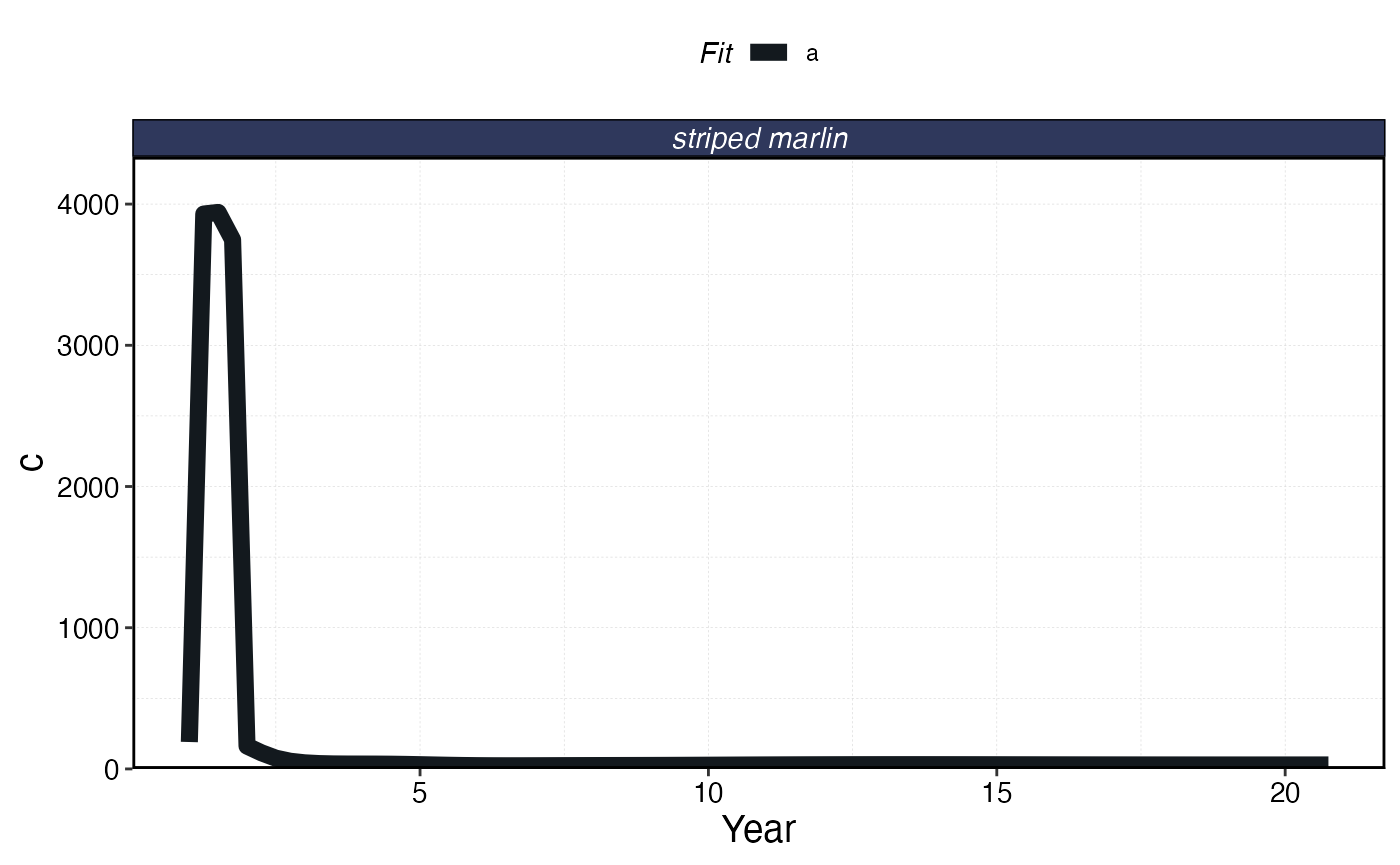
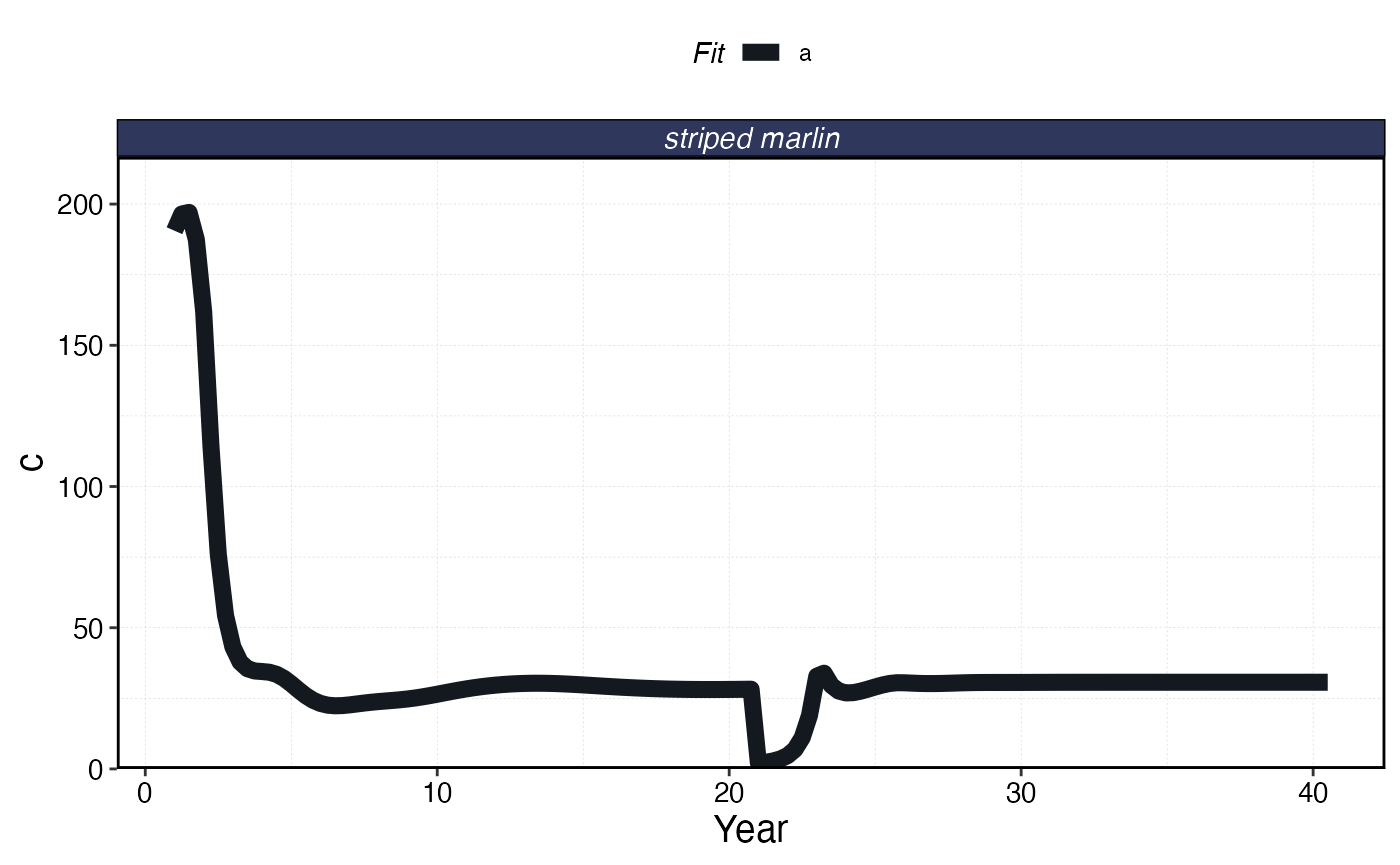
finally moved away from decinal step naming to {year}_{integer season} convention

diff --git a/docs/articles/MSE.html b/docs/articles/MSE.html
@@ -127,9 +127,10 @@ the results of our assessment</p></li>
 <span></span>
 <span><span class="va">burn_years</span> <span class="op">&lt;-</span> <span class="fl">20</span></span>
 <span></span>
-<span><span class="va">sim_years</span> <span class="op">&lt;-</span> <span class="fl">20</span></span>
-<span></span>
 <span><span class="va">seasons</span> <span class="op">&lt;-</span> <span class="fl">4</span></span>
+<span></span>
+<span><span class="va">sim_steps</span> <span class="op">&lt;-</span> <span class="fl">20</span> <span class="op">*</span> <span class="va">seasons</span></span>
+<span></span>
 <span></span>
 <span><span class="va">time_step</span> <span class="op">&lt;-</span> <span class="fl">1</span> <span class="op">/</span> <span class="va">seasons</span></span>
 <span></span>
@@ -211,13 +212,13 @@ the results of our assessment</p></li>
 <span>                  fleets <span class="op">=</span> <span class="va">fleets</span>,</span>
 <span>                  years <span class="op">=</span> <span class="va">burn_years</span><span class="op">)</span></span>
 <span></span>
+<span><span class="va">test</span> <span class="op">&lt;-</span> <span class="fu"><a href="../reference/process_marlin.html">process_marlin</a></span><span class="op">(</span><span class="va">mse_sim</span>, keep_age <span class="op">=</span> <span class="cn">FALSE</span><span class="op">)</span></span>
+<span></span>
 <span><span class="va">initial_conditions</span> <span class="op">&lt;-</span> <span class="va">mse_sim</span><span class="op">[[</span><span class="fu"><a href="https://rdrr.io/r/base/length.html" class="external-link">length</a></span><span class="op">(</span><span class="va">mse_sim</span><span class="op">)</span><span class="op">]</span><span class="op">]</span></span>
 <span></span>
 <span><span class="va">starting_step</span> <span class="op">=</span> <span class="fu">marlin</span><span class="fu">::</span><span class="fu"><a href="../reference/clean_steps.html">clean_steps</a></span><span class="op">(</span><span class="fu"><a href="https://dplyr.tidyverse.org/reference/nth.html" class="external-link">last</a></span><span class="op">(</span><span class="fu"><a href="https://rdrr.io/r/base/names.html" class="external-link">names</a></span><span class="op">(</span><span class="va">mse_sim</span><span class="op">)</span><span class="op">)</span><span class="op">)</span></span>
-<span><span class="co">#&gt; Warning in marlin::clean_steps(last(names(mse_sim))): NAs introduced by</span></span>
-<span><span class="co">#&gt; coercion</span></span>
 <span>  </span>
-<span><span class="kw">for</span> <span class="op">(</span><span class="va">y</span> <span class="kw">in</span> <span class="fl">2</span><span class="op">:</span><span class="va">sim_years</span><span class="op">)</span><span class="op">{</span></span>
+<span><span class="kw">for</span> <span class="op">(</span><span class="va">y</span> <span class="kw">in</span> <span class="fl">2</span><span class="op">:</span><span class="va">sim_steps</span><span class="op">)</span><span class="op">{</span></span>
 <span>  </span>
 <span>  <span class="va">depletion</span> <span class="op">&lt;-</span> <span class="fu">purrr</span><span class="fu">::</span><span class="fu"><a href="https://purrr.tidyverse.org/reference/map.html" class="external-link">map</a></span><span class="op">(</span><span class="va">mse_sim</span><span class="op">[[</span><span class="fu"><a href="https://rdrr.io/r/base/length.html" class="external-link">length</a></span><span class="op">(</span><span class="va">mse_sim</span><span class="op">)</span><span class="op">]</span><span class="op">]</span>, <span class="op">~</span> <span class="fu"><a href="https://rdrr.io/r/base/sum.html" class="external-link">sum</a></span><span class="op">(</span><span class="va">.x</span><span class="op">$</span><span class="va">ssb_p_a</span><span class="op">)</span> <span class="op">/</span> <span class="va">.x</span><span class="op">$</span><span class="va">ssb0</span><span class="op">)</span></span>
 <span>  </span>
@@ -225,86 +226,45 @@ the results of our assessment</p></li>
 <span>  </span>
 <span>  <span class="va">quotas</span> <span class="op">&lt;-</span> <span class="fu">purrr</span><span class="fu">::</span><span class="fu"><a href="https://purrr.tidyverse.org/reference/map2.html" class="external-link">map2</a></span><span class="op">(</span><span class="va">mse_sim</span><span class="op">[[</span><span class="fu"><a href="https://rdrr.io/r/base/length.html" class="external-link">length</a></span><span class="op">(</span><span class="va">mse_sim</span><span class="op">)</span><span class="op">]</span><span class="op">]</span>, <span class="va">u</span>, <span class="op">~</span> <span class="fu"><a href="https://rdrr.io/r/base/sum.html" class="external-link">sum</a></span><span class="op">(</span><span class="va">.x</span><span class="op">$</span><span class="va">ssb_p_a</span><span class="op">)</span> <span class="op">*</span> <span class="va">.y</span><span class="op">)</span></span>
 <span>  </span>
-<span>  <span class="va">next_year</span> <span class="op">&lt;-</span> <span class="fu"><a href="../reference/simmar.html">simmar</a></span><span class="op">(</span></span>
+<span>  <span class="va">next_step</span> <span class="op">&lt;-</span> <span class="fu"><a href="../reference/simmar.html">simmar</a></span><span class="op">(</span></span>
 <span>  fauna <span class="op">=</span> <span class="va">fauna</span>,</span>
 <span>  fleets <span class="op">=</span> <span class="va">fleets</span>,</span>
-<span>  years <span class="op">=</span> <span class="fl">1</span>,</span>
+<span>  steps <span class="op">=</span> <span class="fl">1</span>,</span>
 <span>  initial_conditions <span class="op">=</span> <span class="va">initial_conditions</span>,</span>
 <span>  manager <span class="op">=</span> <span class="fu"><a href="https://rdrr.io/r/base/list.html" class="external-link">list</a></span><span class="op">(</span>quotas <span class="op">=</span> <span class="va">quotas</span><span class="op">)</span>,</span>
 <span>  starting_step <span class="op">=</span> <span class="va">starting_step</span>,</span>
 <span>  keep_starting_step <span class="op">=</span> <span class="cn">FALSE</span></span>
 <span><span class="op">)</span></span>
 <span></span>
-<span>  <span class="va">initial_conditions</span> <span class="op">&lt;-</span> <span class="va">next_year</span><span class="op">[[</span><span class="fu"><a href="https://rdrr.io/r/base/length.html" class="external-link">length</a></span><span class="op">(</span><span class="va">next_year</span><span class="op">)</span><span class="op">]</span><span class="op">]</span></span>
+<span>  <span class="va">initial_conditions</span> <span class="op">&lt;-</span> <span class="va">next_step</span><span class="op">[[</span><span class="fu"><a href="https://rdrr.io/r/base/length.html" class="external-link">length</a></span><span class="op">(</span><span class="va">next_step</span><span class="op">)</span><span class="op">]</span><span class="op">]</span></span>
 <span>  </span>
-<span>  <span class="va">starting_step</span> <span class="op">=</span> <span class="fu">marlin</span><span class="fu">::</span><span class="fu"><a href="../reference/clean_steps.html">clean_steps</a></span><span class="op">(</span><span class="fu"><a href="https://dplyr.tidyverse.org/reference/nth.html" class="external-link">last</a></span><span class="op">(</span><span class="fu"><a href="https://rdrr.io/r/base/names.html" class="external-link">names</a></span><span class="op">(</span><span class="va">next_year</span><span class="op">)</span><span class="op">)</span><span class="op">)</span></span>
+<span>  <span class="va">starting_step</span> <span class="op">=</span> <span class="fu">marlin</span><span class="fu">::</span><span class="fu"><a href="../reference/clean_steps.html">clean_steps</a></span><span class="op">(</span><span class="fu"><a href="https://dplyr.tidyverse.org/reference/nth.html" class="external-link">last</a></span><span class="op">(</span><span class="fu"><a href="https://rdrr.io/r/base/names.html" class="external-link">names</a></span><span class="op">(</span><span class="va">next_step</span><span class="op">)</span><span class="op">)</span><span class="op">)</span></span>
 <span></span>
-<span>  <span class="va">mse_sim</span> <span class="op">&lt;-</span> <span class="fu"><a href="https://rdrr.io/r/base/append.html" class="external-link">append</a></span><span class="op">(</span><span class="va">mse_sim</span>, <span class="va">next_year</span><span class="op">)</span></span>
+<span>  <span class="va">mse_sim</span> <span class="op">&lt;-</span> <span class="fu"><a href="https://rdrr.io/r/base/append.html" class="external-link">append</a></span><span class="op">(</span><span class="va">mse_sim</span>, <span class="va">next_step</span><span class="op">)</span></span>
 <span>  </span>
 <span><span class="op">}</span></span>
-<span><span class="co">#&gt; Warning in marlin::clean_steps(last(names(next_year))): NAs introduced by</span></span>
-<span><span class="co">#&gt; coercion</span></span>
-<span><span class="co">#&gt; Warning in marlin::clean_steps(last(names(next_year))): NAs introduced by</span></span>
-<span><span class="co">#&gt; coercion</span></span>
 <span></span>
-<span><span class="co">#&gt; Warning in marlin::clean_steps(last(names(next_year))): NAs introduced by</span></span>
-<span><span class="co">#&gt; coercion</span></span>
-<span></span>
-<span><span class="co">#&gt; Warning in marlin::clean_steps(last(names(next_year))): NAs introduced by</span></span>
-<span><span class="co">#&gt; coercion</span></span>
-<span></span>
-<span><span class="co">#&gt; Warning in marlin::clean_steps(last(names(next_year))): NAs introduced by</span></span>
-<span><span class="co">#&gt; coercion</span></span>
-<span></span>
-<span><span class="co">#&gt; Warning in marlin::clean_steps(last(names(next_year))): NAs introduced by</span></span>
-<span><span class="co">#&gt; coercion</span></span>
-<span></span>
-<span><span class="co">#&gt; Warning in marlin::clean_steps(last(names(next_year))): NAs introduced by</span></span>
-<span><span class="co">#&gt; coercion</span></span>
-<span></span>
-<span><span class="co">#&gt; Warning in marlin::clean_steps(last(names(next_year))): NAs introduced by</span></span>
-<span><span class="co">#&gt; coercion</span></span>
-<span></span>
-<span><span class="co">#&gt; Warning in marlin::clean_steps(last(names(next_year))): NAs introduced by</span></span>
-<span><span class="co">#&gt; coercion</span></span>
-<span></span>
-<span><span class="co">#&gt; Warning in marlin::clean_steps(last(names(next_year))): NAs introduced by</span></span>
-<span><span class="co">#&gt; coercion</span></span>
-<span></span>
-<span><span class="co">#&gt; Warning in marlin::clean_steps(last(names(next_year))): NAs introduced by</span></span>
-<span><span class="co">#&gt; coercion</span></span>
-<span></span>
-<span><span class="co">#&gt; Warning in marlin::clean_steps(last(names(next_year))): NAs introduced by</span></span>
-<span><span class="co">#&gt; coercion</span></span>
-<span></span>
-<span><span class="co">#&gt; Warning in marlin::clean_steps(last(names(next_year))): NAs introduced by</span></span>
-<span><span class="co">#&gt; coercion</span></span>
-<span></span>
-<span><span class="co">#&gt; Warning in marlin::clean_steps(last(names(next_year))): NAs introduced by</span></span>
-<span><span class="co">#&gt; coercion</span></span>
-<span></span>
-<span><span class="co">#&gt; Warning in marlin::clean_steps(last(names(next_year))): NAs introduced by</span></span>
-<span><span class="co">#&gt; coercion</span></span>
-<span></span>
-<span><span class="co">#&gt; Warning in marlin::clean_steps(last(names(next_year))): NAs introduced by</span></span>
-<span><span class="co">#&gt; coercion</span></span>
-<span></span>
-<span><span class="co">#&gt; Warning in marlin::clean_steps(last(names(next_year))): NAs introduced by</span></span>
-<span><span class="co">#&gt; coercion</span></span>
-<span></span>
-<span><span class="co">#&gt; Warning in marlin::clean_steps(last(names(next_year))): NAs introduced by</span></span>
-<span><span class="co">#&gt; coercion</span></span>
-<span></span>
-<span><span class="co">#&gt; Warning in marlin::clean_steps(last(names(next_year))): NAs introduced by</span></span>
-<span><span class="co">#&gt; coercion</span></span>
 <span></span>
 <span><span class="va">processed_mse_sim</span> <span class="op">&lt;-</span> <span class="fu"><a href="../reference/process_marlin.html">process_marlin</a></span><span class="op">(</span><span class="va">mse_sim</span><span class="op">)</span></span>
+<span></span>
+<span><span class="va">a</span> <span class="op">=</span> <span class="va">processed_mse_sim</span><span class="op">$</span><span class="va">fauna</span> <span class="op">|&gt;</span> </span>
+<span>  <span class="fu"><a href="https://dplyr.tidyverse.org/reference/group_by.html" class="external-link">group_by</a></span><span class="op">(</span><span class="va">step</span>, <span class="va">critter</span><span class="op">)</span> <span class="op">|&gt;</span> </span>
+<span>  <span class="fu"><a href="https://dplyr.tidyverse.org/reference/summarise.html" class="external-link">summarise</a></span><span class="op">(</span>ssb <span class="op">=</span> <span class="fu"><a href="https://rdrr.io/r/base/sum.html" class="external-link">sum</a></span><span class="op">(</span><span class="va">ssb</span><span class="op">)</span><span class="op">)</span></span>
+<span><span class="co">#&gt; `summarise()` has grouped output by 'step'. You can override using the</span></span>
+<span><span class="co">#&gt; `.groups` argument.</span></span>
+<span></span>
+<span><span class="va">b</span> <span class="op">=</span> <span class="va">processed_mse_sim</span><span class="op">$</span><span class="va">fauna</span> <span class="op">|&gt;</span> </span>
+<span>  <span class="fu"><a href="https://dplyr.tidyverse.org/reference/group_by.html" class="external-link">group_by</a></span><span class="op">(</span><span class="va">step</span>, <span class="va">critter</span><span class="op">)</span> <span class="op">|&gt;</span> </span>
+<span>  <span class="fu"><a href="https://dplyr.tidyverse.org/reference/summarise.html" class="external-link">summarise</a></span><span class="op">(</span>c <span class="op">=</span> <span class="fu"><a href="https://rdrr.io/r/base/sum.html" class="external-link">sum</a></span><span class="op">(</span><span class="va">c</span><span class="op">)</span><span class="op">)</span></span>
+<span><span class="co">#&gt; `summarise()` has grouped output by 'step'. You can override using the</span></span>
+<span><span class="co">#&gt; `.groups` argument.</span></span>
+<span></span>
 <span></span>
 <span><span class="fu"><a href="../reference/plot_marlin.html">plot_marlin</a></span><span class="op">(</span><span class="va">processed_mse_sim</span>, plot_var <span class="op">=</span> <span class="st">"c"</span>, max_scale <span class="op">=</span> <span class="cn">FALSE</span><span class="op">)</span></span></code></pre></div>
 <p><img src="MSE_files/figure-html/unnamed-chunk-2-1.png" width="700"></p>
 <div class="sourceCode" id="cb3"><pre class="downlit sourceCode r">
 <code class="sourceCode R"><span></span>
-<span><span class="fu"><a href="../reference/plot_marlin.html">plot_marlin</a></span><span class="op">(</span><span class="va">processed_mse_sim</span>, plot_var <span class="op">=</span> <span class="st">"ssb"</span>, max_scale <span class="op">=</span> <span class="cn">FALSE</span><span class="op">)</span></span></code></pre></div>
+<span><span class="fu"><a href="../reference/plot_marlin.html">plot_marlin</a></span><span class="op">(</span><span class="va">processed_mse_sim</span>, plot_var <span class="op">=</span> <span class="st">"b"</span>, max_scale <span class="op">=</span> <span class="cn">FALSE</span><span class="op">)</span></span></code></pre></div>
 <p><img src="MSE_files/figure-html/unnamed-chunk-2-2.png" width="700"></p>
   </main>
 </div>

diff --git a/docs/articles/fleet-management.html b/docs/articles/fleet-management.html
@@ -373,61 +373,31 @@ effort will never expand beyond the supplied cap for that fleet.</p>
 <span>  <span class="fu"><a href="https://ggplot2.tidyverse.org/reference/geom_path.html" class="external-link">geom_line</a></span><span class="op">(</span><span class="op">)</span> <span class="op">+</span> </span>
 <span>    <span class="fu"><a href="https://ggplot2.tidyverse.org/reference/scale_continuous.html" class="external-link">scale_x_continuous</a></span><span class="op">(</span>name <span class="op">=</span> <span class="st">"Year"</span><span class="op">)</span></span></code></pre></div>
 <p><img src="fleet-management_files/figure-html/unnamed-chunk-6-3.png" width="700"></p>
-</div>
-<div class="section level2">
-<h2 id="seasons">Seasons<a class="anchor" aria-label="anchor" href="#seasons"></a>
-</h2>
-<p>We can also impose closed or reduced fishing seasons that apply to
-one or more targeted species. This is specified by a vector containing
-values between 0 and 1 with length equal to the number of seasons in the
-simulation. When a season has a value of 1, that implies that fishing
-continues as normal in that season. When that value is 0, that means
-that the fishery is closed in that season. Setting intermediate values,
-like say 0.5, is akin to simulating a closed seasons with a 50% discard
-mortality rate</p>
-<p>So one option would be to specify a discard mortality rate, and a
-discard rate, with the discard rate being potentially seasonal.</p>
-<p>The problem is the need to separate out the accounting between how
-many fish actually die and how many the fleet is allowed to retain.
-Suppose you set a discard rate of 50%, and a discard mortality rate of
-0%. That is equivalent to just cutting effort in half.</p>
-<p>But, suppose you set a discard rate of 100% and a discard mortality
-rate of 100%. That would mean that the same amount of fish are dying,
-but you can’t keep them. So that would be easy since again effort
-doesn’t change, you’d just need a multiplier on converting dead fish to
-catch.</p>
-<p>But, now suppose that discard rate is 100% and discard mortality is
-50%. Now, you need to both reduce effort by 50%, but allow zero
-retention.</p>
-<p>So, you’d need to adjust fishing mortality rate by a function of
-discard rate + discard mortality</p>
-<p>That will get the correct amount of fish dead</p>
-<p>Then you’d adjust the catch by just the discard rate</p>
-<p>This gets pretty complicated pretty quickly though, since it means
-that you need to adjust the actual amount killed. So that would come in
-on a multiplier of the fishing mortality rate in the manner you have
-now, where say if you</p>
-<div class="sourceCode" id="cb12"><pre class="downlit sourceCode r">
-<code class="sourceCode R"><span></span>
-<span><span class="va">sim</span> <span class="op">&lt;-</span> <span class="fu"><a href="../reference/simmar.html">simmar</a></span><span class="op">(</span>fauna <span class="op">=</span> <span class="va">fauna</span>,</span>
-<span>                  fleets <span class="op">=</span> <span class="va">fleets</span>,</span>
-<span>                  years <span class="op">=</span> <span class="va">years</span>,</span>
-<span>              manager <span class="op">=</span> <span class="fu"><a href="https://rdrr.io/r/base/list.html" class="external-link">list</a></span><span class="op">(</span>seasonal_effort_mult <span class="op">=</span> <span class="fu"><a href="https://rdrr.io/r/base/list.html" class="external-link">list</a></span><span class="op">(</span>bigeye <span class="op">=</span> <span class="fu"><a href="https://rdrr.io/r/base/c.html" class="external-link">c</a></span><span class="op">(</span><span class="fl">1</span>,<span class="fl">2</span><span class="op">)</span><span class="op">)</span><span class="op">)</span><span class="op">)</span></span>
-<span></span>
-<span><span class="va">proc_sim</span> <span class="op">&lt;-</span> <span class="fu"><a href="../reference/process_marlin.html">process_marlin</a></span><span class="op">(</span><span class="va">sim</span><span class="op">)</span></span>
-<span></span>
-<span><span class="fu"><a href="../reference/plot_marlin.html">plot_marlin</a></span><span class="op">(</span><span class="va">proc_sim</span>, plot_var <span class="op">=</span> <span class="st">"c"</span><span class="op">)</span></span></code></pre></div>
-<p><img src="fleet-management_files/figure-html/unnamed-chunk-7-1.png" width="700"></p>
-<div class="sourceCode" id="cb13"><pre class="downlit sourceCode r">
-<code class="sourceCode R"><span></span>
-<span><span class="va">proc_sim</span><span class="op">$</span><span class="va">fleets</span> <span class="op"><a href="../reference/pipe.html">%&gt;%</a></span> </span>
-<span>  <span class="fu"><a href="https://dplyr.tidyverse.org/reference/group_by.html" class="external-link">group_by</a></span><span class="op">(</span><span class="va">step</span>, <span class="va">fleet</span><span class="op">)</span> <span class="op"><a href="../reference/pipe.html">%&gt;%</a></span></span>
-<span>  <span class="fu"><a href="https://dplyr.tidyverse.org/reference/summarise.html" class="external-link">summarise</a></span><span class="op">(</span>effort <span class="op">=</span> <span class="fu"><a href="https://rdrr.io/r/base/sum.html" class="external-link">sum</a></span><span class="op">(</span><span class="va">effort</span><span class="op">)</span><span class="op">)</span> <span class="op"><a href="../reference/pipe.html">%&gt;%</a></span> </span>
-<span>  <span class="fu"><a href="https://ggplot2.tidyverse.org/reference/ggplot.html" class="external-link">ggplot</a></span><span class="op">(</span><span class="fu"><a href="https://ggplot2.tidyverse.org/reference/aes.html" class="external-link">aes</a></span><span class="op">(</span><span class="va">step</span> <span class="op">*</span> <span class="va">time_step</span>, <span class="va">effort</span>, color <span class="op">=</span> <span class="va">fleet</span><span class="op">)</span><span class="op">)</span> <span class="op">+</span> </span>
-<span>  <span class="fu"><a href="https://ggplot2.tidyverse.org/reference/geom_path.html" class="external-link">geom_line</a></span><span class="op">(</span><span class="op">)</span> <span class="op">+</span> </span>
-<span>  <span class="fu"><a href="https://ggplot2.tidyverse.org/reference/scale_continuous.html" class="external-link">scale_x_continuous</a></span><span class="op">(</span>name <span class="op">=</span> <span class="st">"Year"</span><span class="op">)</span> <span class="op">+</span> </span>
-<span>  <span class="fu"><a href="https://ggplot2.tidyverse.org/reference/scale_continuous.html" class="external-link">scale_y_continuous</a></span><span class="op">(</span>limits <span class="op">=</span> <span class="fu"><a href="https://rdrr.io/r/base/c.html" class="external-link">c</a></span><span class="op">(</span><span class="fl">0</span>, <span class="cn">NA</span><span class="op">)</span><span class="op">)</span></span></code></pre></div>
-<p><img src="fleet-management_files/figure-html/unnamed-chunk-7-2.png" width="700"></p>
+<!-- ## Seasons -->
+<!-- We can also impose closed or reduced fishing seasons that apply to one or more targeted species. This is specified by a vector containing values between 0 and 1 with length equal to the number of seasons in the simulation.  When a season has a value of 1, that implies that fishing continues as normal in that season. When that value is 0, that means that the fishery is closed in that season. Setting intermediate values, like say 0.5, is akin to simulating a closed seasons with a 50% discard mortality rate -->
+<!-- So one option would be to specify a discard mortality rate, and a discard rate, with the discard rate being potentially seasonal.  -->
+<!-- The problem is the need to separate out the accounting between how many fish actually die and how many the fleet is allowed to retain. Suppose you set a discard rate of 50%, and a discard mortality rate of 0%. That is equivalent to just cutting effort in half.  -->
+<!-- But, suppose you set a discard rate of 100% and a discard mortality rate of 100%. That would mean that the same amount of fish are dying, but you can't keep them. So that would be easy since again effort doesn't change, you'd just need a multiplier on converting dead fish to catch.  -->
+<!-- But, now suppose that discard rate is 100% and discard mortality is 50%. Now, you need to both reduce effort by 50%, but allow zero retention.  -->
+<!-- So, you'd need to adjust fishing mortality rate by a function of discard rate + discard mortality -->
+<!-- That will get the correct amount of fish dead -->
+<!-- Then you'd adjust the catch by just the discard rate -->
+<!-- This gets pretty complicated pretty quickly though, since it means that you need to adjust the actual amount killed. So that would come in on a multiplier of the fishing mortality rate in the manner you have now, where say if you  -->
+<!-- ```{r} -->
+<!-- sim <- simmar(fauna = fauna, -->
+<!--                   fleets = fleets, -->
+<!--                   years = years, -->
+<!--               manager = list(seasonal_effort_mult = list(bigeye = c(1,2)))) -->
+<!-- proc_sim <- process_marlin(sim) -->
+<!-- plot_marlin(proc_sim, plot_var = "c") -->
+<!-- proc_sim$fleets %>%  -->
+<!--   group_by(step, fleet) %>% -->
+<!--   summarise(effort = sum(effort)) %>%  -->
+<!--   ggplot(aes(step * time_step, effort, color = fleet)) +  -->
+<!--   geom_line() +  -->
+<!--   scale_x_continuous(name = "Year") +  -->
+<!--   scale_y_continuous(limits = c(0, NA)) -->
+<!-- ``` -->
 </div>
   </main><aside class="col-md-3"><nav id="toc"><h2>On this page</h2>
     </nav></aside>

diff --git a/docs/articles/measure_gradients.html b/docs/articles/measure_gradients.html
@@ -203,7 +203,7 @@ these kinds of measurements using <code>marlin</code></p>
 <span><span class="va">fleets</span> <span class="op">&lt;-</span> <span class="fu"><a href="../reference/tune_fleets.html">tune_fleets</a></span><span class="op">(</span><span class="va">fauna</span>, <span class="va">fleets</span>, tune_type <span class="op">=</span> <span class="va">tune_type</span><span class="op">)</span> <span class="co"># tunes the catchability by fleet to achieve target depletion</span></span>
 <span></span>
 <span><span class="fu"><a href="https://rdrr.io/r/base/Sys.time.html" class="external-link">Sys.time</a></span><span class="op">(</span><span class="op">)</span> <span class="op">-</span> <span class="va">a</span></span>
-<span><span class="co">#&gt; Time difference of 3.692855 secs</span></span>
+<span><span class="co">#&gt; Time difference of 3.599519 secs</span></span>
 <span></span>
 <span><span class="co"># run simulations</span></span>
 <span></span>
@@ -214,7 +214,7 @@ these kinds of measurements using <code>marlin</code></p>
 <span>                  years <span class="op">=</span> <span class="va">years</span><span class="op">)</span></span>
 <span></span>
 <span><span class="fu"><a href="https://rdrr.io/r/base/Sys.time.html" class="external-link">Sys.time</a></span><span class="op">(</span><span class="op">)</span> <span class="op">-</span> <span class="va">a</span></span>
-<span><span class="co">#&gt; Time difference of 0.1294858 secs</span></span>
+<span><span class="co">#&gt; Time difference of 0.121702 secs</span></span>
 <span>  </span>
 <span><span class="va">proc_spillover</span> <span class="op">&lt;-</span> <span class="fu"><a href="../reference/process_marlin.html">process_marlin</a></span><span class="op">(</span><span class="va">spillover_sim</span>, time_step <span class="op">=</span>  <span class="va">fauna</span><span class="op">[[</span><span class="fl">1</span><span class="op">]</span><span class="op">]</span><span class="op">$</span><span class="va">time_step</span><span class="op">)</span></span>
 <span></span>
@@ -243,7 +243,7 @@ these kinds of measurements using <code>marlin</code></p>
 <span><span class="op">)</span></span>
 <span></span>
 <span><span class="fu"><a href="https://rdrr.io/r/base/Sys.time.html" class="external-link">Sys.time</a></span><span class="op">(</span><span class="op">)</span> <span class="op">-</span> <span class="va">a</span></span>
-<span><span class="co">#&gt; Time difference of 0.03751993 secs</span></span>
+<span><span class="co">#&gt; Time difference of 0.03970814 secs</span></span>
 <span></span>
 <span><span class="va">proc_mpa_spillover</span> <span class="op">&lt;-</span> <span class="fu"><a href="../reference/process_marlin.html">process_marlin</a></span><span class="op">(</span><span class="va">mpa_spillover</span>, time_step <span class="op">=</span>  <span class="va">fauna</span><span class="op">[[</span><span class="fl">1</span><span class="op">]</span><span class="op">]</span><span class="op">$</span><span class="va">time_step</span><span class="op">)</span></span>
 <span></span>

diff --git a/docs/articles/rectifier.html b/docs/articles/rectifier.html
@@ -195,7 +195,7 @@ simulation space)</p>
 <span>                  years <span class="op">=</span> <span class="va">years</span><span class="op">)</span></span>
 <span></span>
 <span><span class="fu"><a href="https://rdrr.io/r/base/Sys.time.html" class="external-link">Sys.time</a></span><span class="op">(</span><span class="op">)</span> <span class="op">-</span> <span class="va">start_time</span></span>
-<span><span class="co">#&gt; Time difference of 1.256332 secs</span></span>
+<span><span class="co">#&gt; Time difference of 1.166953 secs</span></span>
 <span>  </span>
 <span></span>
 <span><span class="va">processed_coastline</span> <span class="op">&lt;-</span> <span class="fu"><a href="../reference/process_marlin.html">process_marlin</a></span><span class="op">(</span><span class="va">coastline_sim</span>, keep_age <span class="op">=</span> <span class="cn">FALSE</span><span class="op">)</span></span></code></pre></div>
